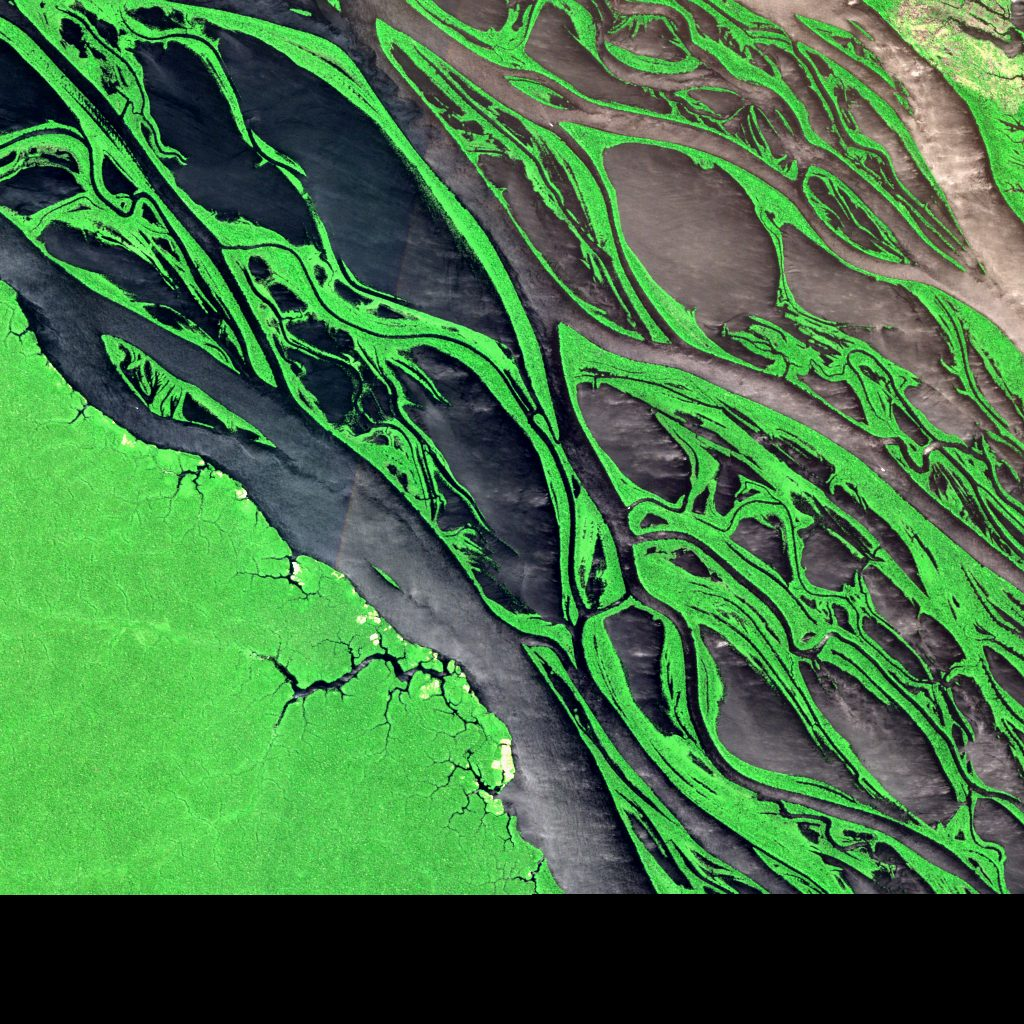
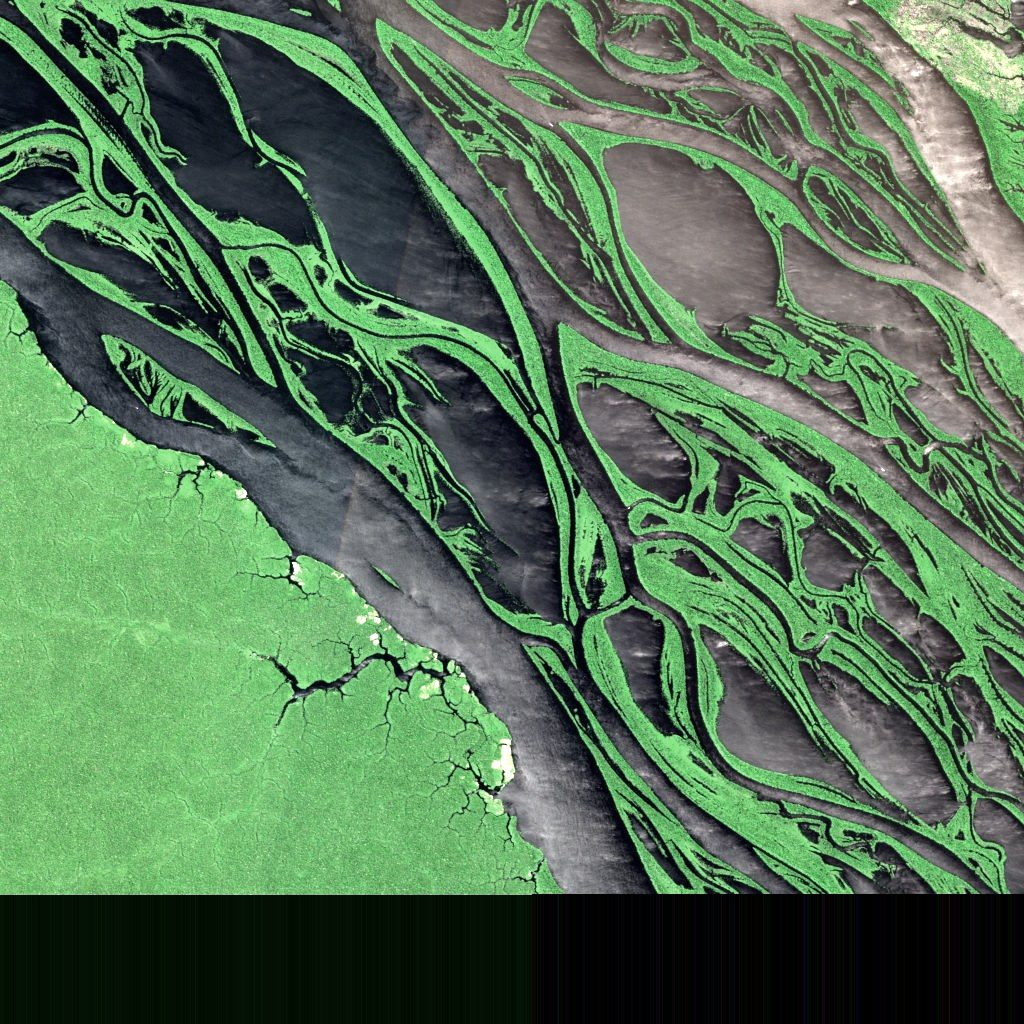
Fix place view data being frozen in the page; accent-insensitive search; refetch Table Mountain from clearer months; tidy Amazon tile
The page had a baked copy of PLACE_VIEWS instead of the placeholder the
build fills in, so new places had no flyover data. Also adds line drawings
for the Colosseum and Chichén Itzá.

Claude-Session: https://claude.ai/code/session_01CEzgyP4akkYaDMXm5gjsE4

diff --git a/site/index.html b/site/index.html
@@ -413,9 +413,9 @@ a { color: var(--sea); }
 <div id="err"><p>Bisita needs 3D graphics (WebGL), which this browser has turned off. Try another browser or device.</p></div>
 
 <script src="three.min.js"></script>
-<script src="places.js"></script>
+<script src="places.js" charset="utf-8"></script>
 <script>
-window.PLACE_VIEWS = {"iguazu":{"km":6.0,"elevMin":93,"elevMax":260,"date":"2025-08-17","bbox":[-54.46990540380971,-25.716949335249733,-54.410094596190284,-25.66305066475027]},"petra":{"km":5.0,"elevMin":794,"elevMax":1503,"date":"2025-06-13","bbox":[35.424983163199435,30.299542220625224,35.477016836800566,30.344457779374775]},"machu-picchu":{"km":6.0,"elevMin":1749,"elevMax":3241,"date":"2025-07-10","bbox":[-72.5726765031996,-13.18994933524973,-72.5173234968004,-13.13605066475027]},"swiss-alps":{"km":14.0,"elevMin":1605,"elevMax":4345,"date":"2025-07-09","bbox":[7.567517359124775,45.91311821775063,7.748482640875226,46.03888178224937]},"great-barrier-reef":{"km":10.0,"elevMin":0,"elevMax":341,"date":"2025-07-03","bbox":[148.99211920574086,-20.31491555874955,149.08788079425912,-20.22508444125045]},"victoria-falls":{"km":6.0,"elevMin":737,"elevMax":984,"date":"2025-05-31","bbox":[25.828675814557826,-17.951949335249733,25.885324185442173,-17.89805066475027]},"zhangjiajie":{"km":10.0,"elevMin":411,"elevMax":1236,"date":"2025-12-27","bbox":[110.38847522469449,29.29508444125045,110.4915247753055,29.38491555874955]},"fiordland":{"km":18.0,"elevMin":0,"elevMax":2186,"date":"2025-02-14","bbox":[167.76641447784658,-44.70084800574919,167.9935855221534,-44.53915199425081]},"yosemite":{"km":14.0,"elevMin":1180,"elevMax":2754,"date":"2025-07-06","bbox":[-119.66451165983868,37.67211821775063,-119.5054883401613,37.79788178224937]},"giza":{"km":3.0,"elevMin":7,"elevMax":124,"date":"2025-06-06","bbox":[31.11844408478022,29.965525332375133,31.149555915219782,29.992474667624865]},"dolomites":{"km":12.0,"elevMin":938,"elevMax":3054,"date":"2025-09-19","bbox":[12.224527345617508,46.565101329500536,12.381472654382494,46.672898670499464]},"galapagos":{"km":8.0,"elevMin":0,"elevMax":212,"date":"2024-03-06","bbox":[-90.58593287607336,-0.3159324469996407,-90.51406712392664,-0.24406755300035934]},"uluru":{"km":8.0,"elevMin":505,"elevMax":860,"date":"2025-05-29","bbox":[130.996240902735,-25.379932446999643,131.075759097265,-25.30806755300036]},"komodo":{"km":30.0,"elevMin":0,"elevMax":797,"date":"2024-07-17","bbox":[119.36372105522499,-8.734746676248653,119.63627894477501,-8.465253323751346]},"serengeti":{"km":20.0,"elevMin":1374,"elevMax":1799,"date":"2025-08-30","bbox":[34.70008803070011,-2.519831117499102,34.87991196929989,-2.3401688825008984]},"great-wall":{"km":6.0,"elevMin":160,"elevMax":1029,"date":"2025-09-08","bbox":[116.52859566899592,40.404050664750265,116.59940433100407,40.45794933524973]},"eiffel-tower":{"km":3.0,"elevMin":25,"elevMax":84,"date":"2025-08-12","bbox":[2.273519523890937,48.844525332375134,2.314480476109063,48.87147466762486]},"angkor-wat":{"km":4.0,"elevMin":4,"elevMax":86,"date":"2025-01-07","bbox":[103.84853005149971,13.39403377650018,103.8854699485003,13.429966223499822]},"plitvice":{"km":8.0,"elevMin":433,"elevMax":1069,"date":"2025-09-18","bbox":[15.55928994172434,44.844067553000365,15.660710058275658,44.91593244699964]},"santorini":{"km":18.0,"elevMin":0,"elevMax":520,"date":"2025-07-22","bbox":[25.29955444306469,36.31915199425081,25.500445556935308,36.48084800574919]},"zion":{"km":12.0,"elevMin":1189,"elevMax":2359,"date":"2025-10-08","bbox":[-113.01771622110267,37.20110132950054,-112.88228377889733,37.30889867049947]},"mount-fuji":{"km":26.0,"elevMin":156,"elevMax":3731,"date":"2025-03-22","bbox":[138.5848028017808,35.24421954725116,138.87119719821922,35.47778045274883]},"yellowstone":{"km":12.0,"elevMin":2195,"elevMax":2651,"date":"2025-09-25","bbox":[-110.90556766429432,44.446101329500536,-110.75443233570567,44.553898670499464]},"torres-del-paine":{"km":22.0,"elevMin":11,"elevMax":2618,"date":"2025-11-07","bbox":[-73.15694971928262,-51.07881422924901,-72.84305028071738,-50.88118577075098]},"kilimanjaro":{"km":26.0,"elevMin":1621,"elevMax":5875,"date":"2025-02-21","bbox":[37.23805203705435,-3.1837804527488323,37.47194796294564,-2.950219547251168]},"ha-long-bay":{"km":16.0,"elevMin":0,"elevMax":417,"date":"2024-12-20","bbox":[107.0030941832519,20.78813510600072,107.1569058167481,20.93186489399928]},"taj-mahal":{"km":3.0,"elevMin":142,"elevMax":185,"date":"2025-11-26","bbox":[78.0268533843417,27.161525332375135,78.0571466156583,27.188474667624867]},"banff":{"km":18.0,"elevMin":1520,"elevMax":3473,"date":"2025-08-21","bbox":[-116.32950419236003,51.28915199425081,-116.07049580763997,51.45084800574919]},"grand-canyon":{"km":16.0,"elevMin":709,"elevMax":2260,"date":"2025-06-17","bbox":[-112.20891453178037,36.00313510600072,-112.03108546821964,36.146864893999286]},"niagara":{"km":5.0,"elevMin":65,"elevMax":216,"date":"2025-06-11","bbox":[-79.10574720239856,43.05754222062522,-79.04425279760144,43.102457779374774]}};
+window.PLACE_VIEWS = __PLACE_VIEWS__;
 </script>
 <script>
 (() => {
@@ -952,6 +952,31 @@ const LINE_ART = {
     tower(512, 740, 420, 70); tower(320, 740, 260, 50); tower(704, 740, 260, 50); tower(230, 820, 180, 38); tower(794, 820, 180, 38);
     g.stroke();
   },
+  colosseum: (g) => {
+    g.beginPath(); g.moveTo(60, 900); g.lineTo(964, 900);
+    // three tiers of arches and a solid attic; the right side is broken away, as it is today
+    const tiers = [[900, 735], [735, 575], [575, 420]];
+    tiers.forEach(([y0, y1], t) => {
+      const right = t === 2 ? 760 : t === 1 ? 860 : 904;
+      g.moveTo(120, y1); g.lineTo(right, y1);
+      for (let x = 140; x + 50 <= right; x += 64) { const top = y1 + 40; g.moveTo(x, y0); g.lineTo(x, top + 25); g.arc(x + 25, top + 25, 25, Math.PI, 0); g.lineTo(x + 50, y0); }
+    });
+    g.moveTo(120, 900); g.lineTo(120, 300); g.lineTo(640, 300); g.lineTo(660, 340); g.lineTo(700, 330); g.lineTo(730, 420);
+    g.moveTo(760, 420); g.lineTo(800, 470); g.lineTo(830, 520); g.lineTo(860, 575); g.lineTo(880, 660); g.lineTo(904, 735);
+    g.moveTo(120, 360); g.lineTo(640, 360);
+    for (let x = 170; x < 640; x += 64) { g.rect(x, 320, 22, 26); }
+    g.stroke();
+  },
+  "chichen-itza": (g) => {
+    g.beginPath(); g.moveTo(60, 900); g.lineTo(964, 900);
+    // nine stepped terraces, the great stair, and the temple on top
+    for (let i = 0; i < 9; i++) { const w = 820 - i * 70, y = 900 - i * 62; g.rect(512 - w / 2, y - 62, w, 62); }
+    g.moveTo(452, 900); g.lineTo(482, 342); g.moveTo(572, 900); g.lineTo(542, 342);
+    for (let y = 878; y > 350; y -= 22) { const k = (900 - y) / 558; g.moveTo(452 + 30 * k, y); g.lineTo(572 - 30 * k, y); }
+    g.rect(432, 222, 160, 120); g.rect(482, 262, 60, 80); g.moveTo(416, 222); g.lineTo(608, 222);
+    g.moveTo(452, 900); g.quadraticCurveTo(420, 880, 446, 858); g.moveTo(572, 900); g.quadraticCurveTo(604, 880, 578, 858);
+    g.stroke();
+  },
   "great-wall": (g) => {
     g.beginPath();
     g.moveTo(40, 760); g.bezierCurveTo(200, 520, 300, 520, 420, 640); g.bezierCurveTo(540, 760, 640, 420, 760, 400); g.bezierCurveTo(860, 390, 920, 470, 990, 520);
@@ -1056,7 +1081,7 @@ function drawSil(it) {
 // below the horizon each sits deeper, smaller and hazier, like ridges fading into
 // the distance. Aiming at a layer pulls it into focus.
 // rough width of each built landmark, so up close it shows at its real size
-const BUILT_KM = { "eiffel-tower": 0.33, "taj-mahal": 0.3, giza: 1.2, petra: 0.08, "angkor-wat": 1.5, "great-wall": 2 };
+const BUILT_KM = { colosseum: 0.25, "chichen-itza": 0.3, "eiffel-tower": 0.33, "taj-mahal": 0.3, giza: 1.2, petra: 0.08, "angkor-wat": 1.5, "great-wall": 2 };
 const AR_GROW = 1.4; // in AR, places draw bigger so they hold up over a busy camera picture
 function layoutLook() {
   const its = lookItems.slice().sort((a, b) => a.d.km - b.d.km);
@@ -1941,8 +1966,9 @@ $("pause").addEventListener("click", () => { paused = !paused; userHold = 0; syn
 // ---------- finder ----------
 function renderResults(q) {
   const r = $("results"); r.innerHTML = "";
-  const s = q.trim().toLowerCase();
-  const list = PLACES.filter((p) => !s || [p.name, p.country, p.region, CATS[p.cat]].join(" ").toLowerCase().includes(s));
+  const fold = (t) => t.normalize("NFD").replace(/[\u0300-\u036f]/g, "").toLowerCase();
+  const s = q.trim().toLowerCase(), f = fold(s);
+  const list = PLACES.filter((p) => !s || fold([p.name, p.country, p.region, CATS[p.cat]].join(" ")).includes(f));
   if (!list.length) { r.innerHTML = `<p style="color:var(--mist);padding:12px 4px">No places match “${s.replace(/[<>&]/g, "")}”. Try a country, like Peru, or a kind of place, like waterfall.</p>`; return; }
   const groups = {};
   list.forEach((p) => (groups[p.region] = groups[p.region] || []).push(p));
@@ -2019,4 +2045,4 @@ requestAnimationFrame(frame);
 setTimeout(hideHint, 12000);
 })();
 </script>
-<script src="profile.js"></script>
+<script src="profile.js" charset="utf-8"></script>
